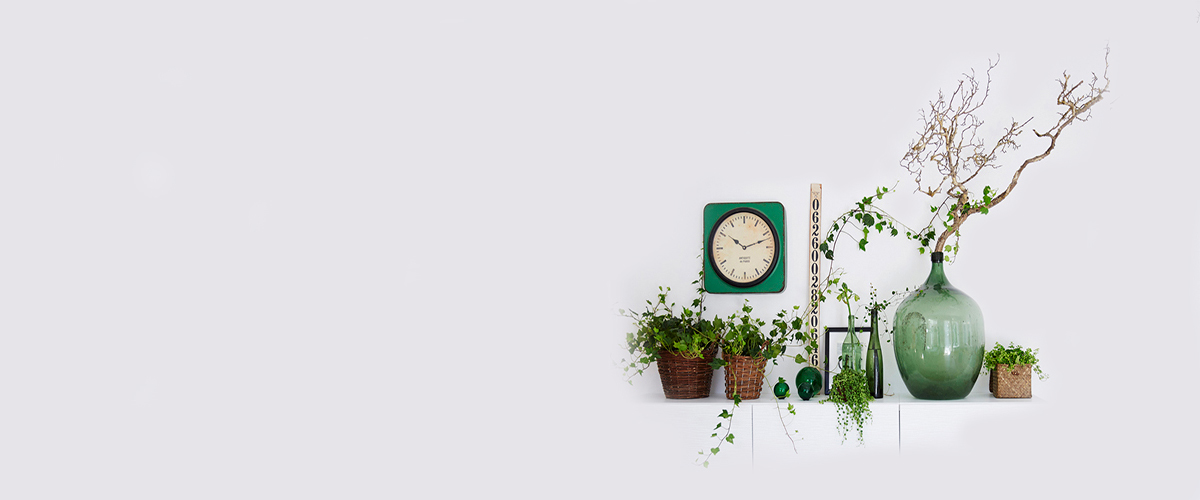
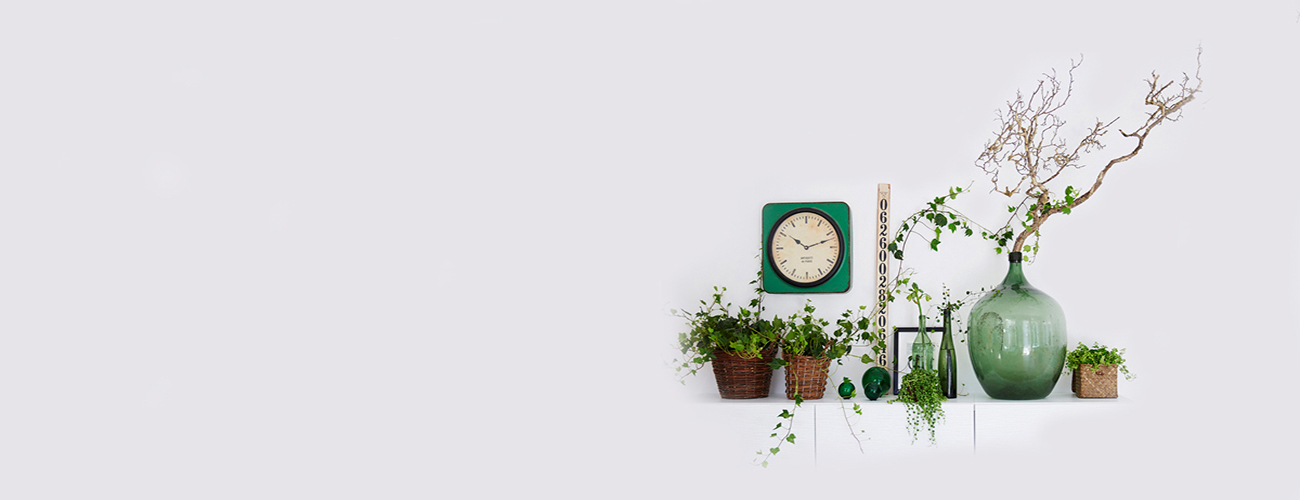
first commit

diff --git a/themes.html b/themes.html
@@ -23,17 +23,17 @@
   <h2>Our themes</h2>
     <div class="themes-container">
       <div>
-        <img src="images/aloha.jpg" alt="Aloha theme" width="300" height="270">
+        <img src="images/aloha.jpg" alt="Aloha theme">
         <h3>Aloha</h3>
         <p>This rich theme includes exotic coconuts spilling all over the floor combined with palm trees that hang down and are always in the way of your daily workflow. This theme is very complicated, suitable for complex startups with a unclear monetizing strategy.</p>
       </div>
       <div>
-        <img src="images/siberia.jpg" alt="Siberia theme" width="300" height="270">
+        <img src="images/siberia.jpg" alt="Siberia theme">
         <h3>Siberia</h3>
         <p>Dead plants everywhere. Plants sprayed with white color to give that cold secluded look.</p>   
       </div>
       <div>
-        <img src="images/exotique-nordic.jpg" alt="Exotique Nordic theme" width="300" height="270">
+        <img src="images/exotique-nordic.jpg" alt="Exotique Nordic theme">
         <h3>Exotique Nordic</h3>
         <p>Everything is pine and spruce. Get that Norrlands inland-look in your office. Comes with a Christmas Decoration Extension Pack for the first 100 subscribers (Bears not included).</p>
       </div>

diff --git a/index.html b/index.html
@@ -21,7 +21,7 @@
   <a href="contact.html">Contact</a>
 </div>
 
-<img src="images/framsida.jpg" alt="image" width="1300" height="500">
+<img src="images/framsida.jpg" alt="image">
   <div class="logo-slogan">
     <h2>ARBOREAL</h2>
     <p> - A workplace that is alive create ideas that live on.</p>
